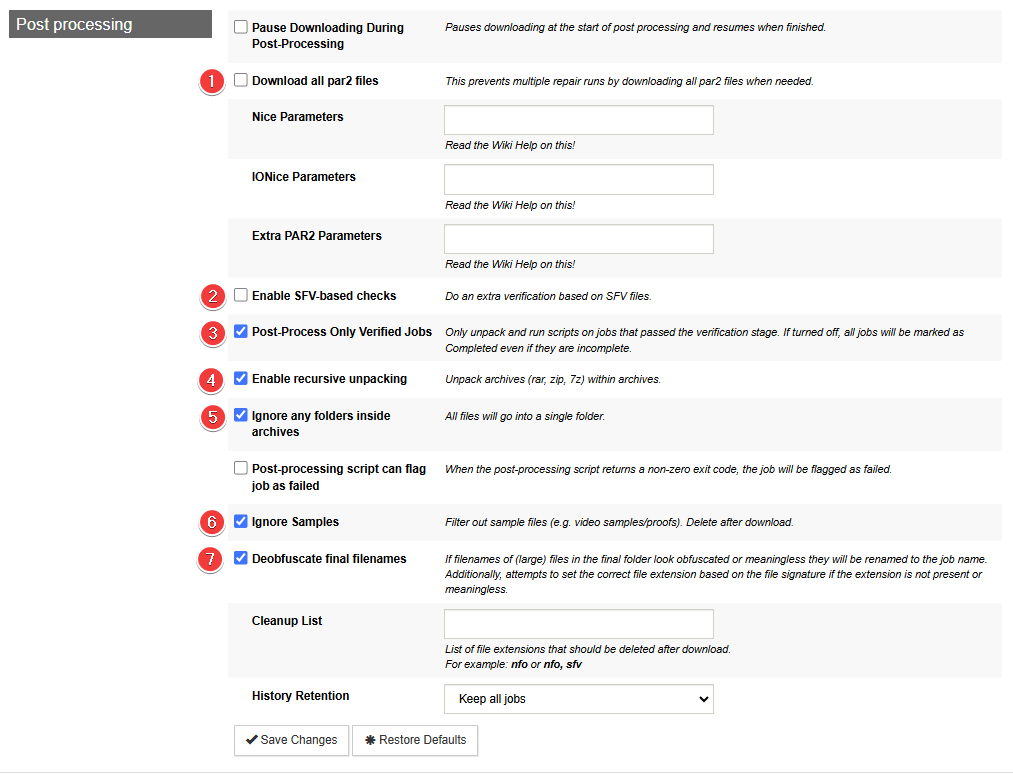
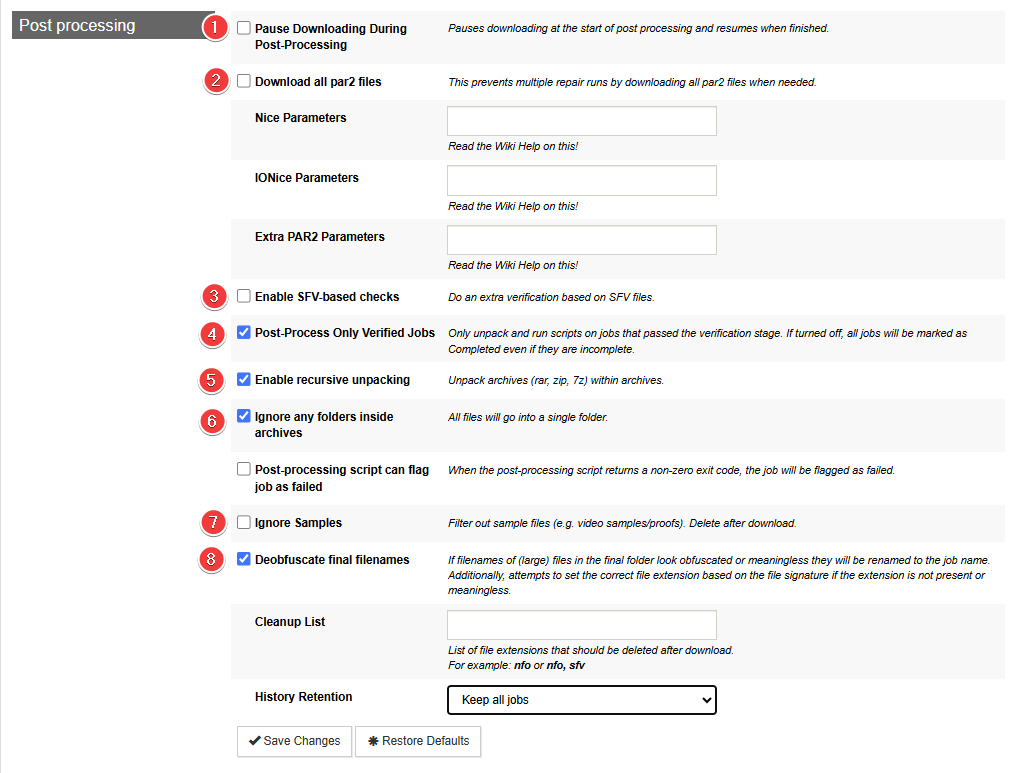
Finished updating the SABnzbd guide

diff --git a/docs/Downloaders/SABnzbd/Basic-Setup.md b/docs/Downloaders/SABnzbd/Basic-Setup.md
@@ -103,10 +103,12 @@ Covered and fully explained in [SABnzbd - Paths and Categories](/Downloaders/SAB
 ![!Switches: Post-processing](images/sabnzbd-switches-post-processing.png)
 
 1. If your hardware isn't up to snuff, including cpu and/or io performance, disabling Direct Unpack and/or enabling Pause Downloading During Post-Processing can help. Defaults are fine for most hardware though.
+1. This should be checked off if you have any sort of decent internet. as the amount of time spent to grab pars to use if its needed for verification/repair is trivial to the time that a repair might run to fail to realize it needs more pars to grab the next part then to try again.
+1. Personal choice if you want to enable this option, its usually an easy check and does provide benefit if job didn't have par2 files. Not every release has a par-set or sfv file. but generally speaking if were talking about scene releases things should have both but of course depends on how its posted/how the indexer is generating the nzb if it includes it or what. sfv do get used by others and well a basic crc32 checksum is better than not to know if the file is good. Parsing a sfv file and comparing crc32 checksum for a file takes very little resources. and sure you might say its a waste if your doing stuff with pars because the par checksum/check there would just handle it. but its just one of those options it doesn't do any harm to outweigh the value of scenarios that it could be used when a par-set is missing
 1. Only unpack and run scripts on jobs that passed the verification stage. If turned off, all jobs will be marked as Completed even if they are incomplete.
 1. Unpack archives (rar, zip, 7z) within archives.
 1. This can help with subs that are in folders in the rar because sonarr/radarr don't look in sub-folders.
-1. Some servers provide an alternative NZB when a download fails. I have it enabled no guarantee that it works.
+1. Best to leave this disabled and let the Starr apps handle this since it looks at runtime and makes a much more intelligent decision if its a sample compared to what SABnzbd uses.
 1. Helps with de-obfuscation especially invalid file extensions
 
 ------
